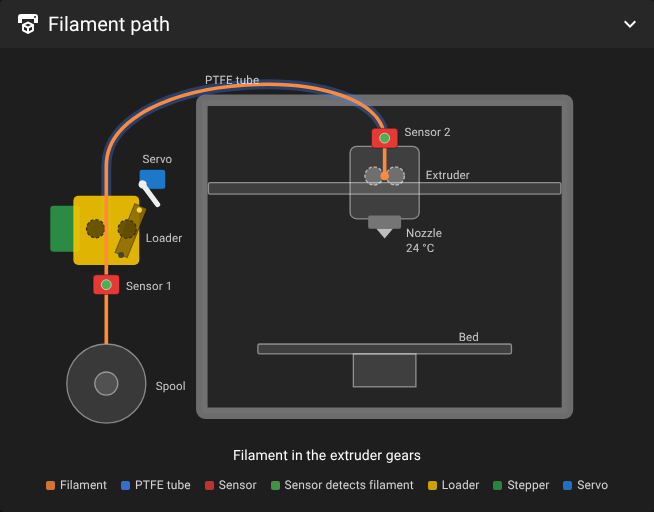
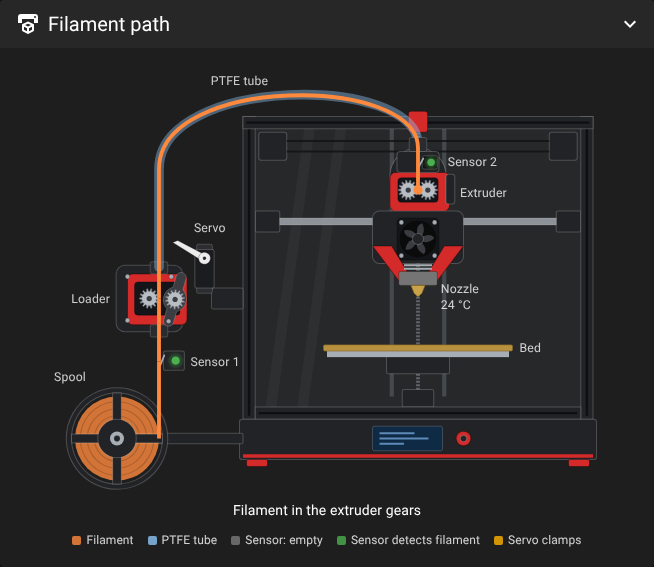
Filament path graphic in Voron V0.2 style
- Black 2020 extrusions, red accent parts, panels, CoreXY gantry with A/B
  motors and X rail, bed with textured sheet, Z lead screw, skirt with
  display, knob and feet
- Loader: NEMA17 face with printed housing, BMG-style toothed gears, idler
  on a swing arm, MG90S with horn, couplers, micro switch with status LED,
  spool with flange spokes on its holder (turns while the loader pulls)
- Toolhead: Sherpa Mini-style extruder, sensor block, Dragon Burner-style
  body with hotend fan (spins above 50 °C), red ducts, heatsink, heater
  block coloured by temperature, brass nozzle
- Works in Mainsail's dark and light theme

Claude-Session: https://claude.ai/code/session_01VDtPnBwXqHuwKHs624Dn1u

diff --git a/web/index.html b/web/index.html
@@ -83,23 +83,60 @@ html.theme--light .kv td { border-bottom-color: rgba(0,0,0,.12); }
 .step-ic.auto { cursor: default; }
 
 /* filament path graphic */
-#fpath { width: 100%; max-width: 560px; display: block; margin: 0 auto; overflow: visible; }
-#fpath text { font: 7px Roboto, sans-serif; fill: currentColor; opacity: .75; }
-#fpath .frame { fill: none; stroke: currentColor; stroke-opacity: .35; stroke-width: 7; }
-#fpath .panel-bg { fill: currentColor; fill-opacity: .03; }
-#fpath .part { fill: currentColor; fill-opacity: .12; stroke: currentColor; stroke-opacity: .45; stroke-width: .8; }
-#fpath .tube { fill: none; stroke: #3b82f6; stroke-opacity: .35; stroke-width: 6; stroke-linecap: round; }
+#fpath { width: 100%; max-width: 560px; display: block; margin: 0 auto; overflow: visible;
+  --fp-black: #222326; --fp-blk2: #2d2e32; --fp-edge: rgba(255,255,255,.2); --fp-acc: #d42a2a; --fp-acc-edge: rgba(0,0,0,.35);
+  --fp-metal: #a7adb4; --fp-glass: rgba(150,180,210,.07); }
+html.theme--light #fpath { --fp-edge: rgba(0,0,0,.55); --fp-glass: rgba(90,130,170,.08); }
+#fpath text { font: 7px Roboto, sans-serif; fill: currentColor; opacity: .78; }
+#fpath .ext, #fpath .blk, #fpath .motor, #fpath .flange { fill: var(--fp-black); stroke: var(--fp-edge); stroke-width: .6; }
+#fpath .slot { stroke: #000; stroke-opacity: .55; stroke-width: 1.4; }
+#fpath .acc { fill: var(--fp-acc); stroke: var(--fp-acc-edge); stroke-width: .6; }
+#fpath .acc-line { stroke: var(--fp-acc); stroke-width: 2; }
+#fpath .glass { fill: var(--fp-glass); }
+#fpath .glare { stroke: #fff; stroke-opacity: .035; stroke-width: 6; }
+#fpath .rod { stroke: var(--fp-metal); stroke-opacity: .45; stroke-width: 2.2; stroke-dasharray: 1.2 .8; }
+#fpath .zrail { stroke: var(--fp-metal); stroke-opacity: .25; stroke-width: 2.4; }
+#fpath .rail { fill: var(--fp-metal); fill-opacity: .8; stroke: var(--fp-edge); stroke-width: .4; }
+#fpath .belt { stroke: #111; stroke-width: 1.2; stroke-opacity: .8; }
+#fpath .alu { fill: var(--fp-metal); }
+#fpath .sheet { fill: #b8913f; stroke: #8a6a2a; stroke-width: .4; }
+#fpath .lcd { fill: #0f2a44; stroke: var(--fp-edge); stroke-width: .5; }
+#fpath .lcd-txt { stroke: #7fb3e8; stroke-opacity: .7; stroke-width: 1.2; }
+#fpath .wind { fill: #ff8a3d; fill-opacity: .8; }
+#fpath .wind-line { fill: none; stroke: #000; stroke-opacity: .18; stroke-width: .6; }
+#fpath .metal, #fpath .screw { fill: var(--fp-metal); }
+#fpath .screw { stroke: rgba(0,0,0,.4); stroke-width: .3; }
+#fpath .motor-ring { fill: none; stroke: var(--fp-metal); stroke-opacity: .5; stroke-width: .8; }
+#fpath .win, #fpath .fanbox { fill: #141518; stroke: rgba(0,0,0,.4); stroke-width: .4; }
+#fpath .fanhole { fill: #0b0b0c; }
+#fpath .blade { fill: #3a3c41; }
+#fpath .fins { stroke: var(--fp-metal); stroke-width: 1.2; }
+#fpath .brass { fill: #c9a24a; stroke: #8d6d24; stroke-width: .4; }
+#fpath #heater { stroke: rgba(0,0,0,.4); stroke-width: .4; transition: fill .6s; }
+#fpath .coupler { fill: #2a2b2f; stroke: var(--fp-edge); stroke-width: .5; }
+#fpath .sw { fill: #111; stroke: var(--fp-edge); stroke-width: .5; }
+#fpath .lever { stroke: var(--fp-metal); stroke-width: 1; stroke-linecap: round; }
+#fpath .armp { fill: #3b3d42; stroke: var(--fp-edge); stroke-width: .5; }
+#fpath .servo { fill: #1b1c1f; stroke: var(--fp-edge); stroke-width: .6; }
+#fpath .servo-ear { fill: #2c2d31; stroke: var(--fp-edge); stroke-width: .5; }
+#fpath .horn { fill: #ececec; stroke: rgba(0,0,0,.35); stroke-width: .4; }
+#fpath .tube { fill: none; stroke: #8ec5f5; stroke-opacity: .42; stroke-width: 5.5; stroke-linecap: round; }
 #fpath .fil { fill: none; stroke: #ff8a3d; stroke-width: 2.2; stroke-linecap: butt; transition: stroke-dasharray .4s, opacity .4s; }
 #fpath .fil.faint { opacity: .35; }
-#fpath .gear { fill: currentColor; fill-opacity: .25; stroke: currentColor; stroke-opacity: .6; stroke-width: .8; stroke-dasharray: 2 1.2; transform-box: fill-box; transform-origin: center; }
+#fpath .gear { transform-box: fill-box; transform-origin: center; }
+#fpath .gteeth { fill: #b9bec5; stroke: #5f646b; stroke-width: .4; }
+#fpath .ghub { fill: #3a3c41; }
 #fpath .gear.spin { animation: fspin 1s linear infinite; }
 #fpath .gear.spin.rev { animation-direction: reverse; }
-#fpath .sensor { fill: #e53935; stroke: rgba(0,0,0,.35); stroke-width: .6; }
-#fpath .sdot { fill: #333; stroke: #fff; stroke-opacity: .6; stroke-width: .6; transition: fill .3s; }
-#fpath .sdot.on { fill: #4caf50; }
+#fpath #spool { transform-box: view-box; transform-origin: 40px 214px; }
+#fpath #spool.spin { animation: fspin 3s linear infinite reverse; }
+#fpath #fan { transform-box: view-box; transform-origin: 212px 100px; }
+#fpath #fan.spin { animation: fspin .35s linear infinite; }
+#fpath .sdot { fill: #7a7a7a; stroke: #000; stroke-opacity: .5; stroke-width: .5; transition: fill .3s; }
+#fpath .sdot.on { fill: #4caf50; filter: drop-shadow(0 0 1.5px #4caf50); }
 #fpath #arm, #fpath #horn { transition: transform .4s; transform-box: view-box; }
-#fpath #arm { transform-origin: 45px 116px; }
-#fpath #horn { transform-origin: 58px 73px; }
+#fpath #arm { transform-origin: 69.5px 147px; }
+#fpath #horn { transform-origin: 90px 111px; }
 #fpath #press { transition: opacity .3s; }
 #fpath .head { fill: #ff8a3d; }
 #fpath .head.pulse { animation: fpulse 1s ease-in-out infinite; transform-box: fill-box; transform-origin: center; }
@@ -109,7 +146,6 @@ html.theme--light .kv td { border-bottom-color: rgba(0,0,0,.12); }
 .legend-row { display: flex; flex-wrap: wrap; gap: 4px 14px; font-size: 12px; opacity: .8; justify-content: center; }
 .legend-row i { display: inline-block; width: 9px; height: 9px; border-radius: 50%; margin-right: 5px; vertical-align: -1px; }
 
-#fpath #g-l1, #fpath #g-l2 { fill: #5d4a00; fill-opacity: .9; stroke: #3e3200; stroke-opacity: 1; }
 
 /* settings editor */
 #tab-bar .v-tab { min-width: 0; padding: 0 12px; }
@@ -228,7 +264,7 @@ body.no-mainsail .v-btn { background: #333; color: #fff; border: 0; border-radiu
           <div class="col" id="col1">
             <x-panel p="path" icon="mdiPrinter3d" title="Filamentweg">
               <div class="v-card__text">
-                <svg id="fpath" viewBox="0 0 340 228" role="img" aria-label="Filamentweg"></svg>
+                <svg id="fpath" viewBox="0 0 320 246" role="img" aria-label="Filamentweg"></svg>
                 <div class="d-flex align-center justify-center flex-wrap mt-1" style="gap:8px" id="path-info"></div>
                 <div class="legend-row mt-2" id="path-legend"></div>
               </div>
@@ -595,7 +631,7 @@ const T_EN = {
   "Sprache der Klipper-Meldungen auf {l} gesetzt.": "Klipper message language set to {l}.",
   // Filament path
   "Filamentweg": "Filament path", "Spule": "Spool", "PTFE-Schlauch": "PTFE tube", "Extruder": "Extruder", "Düse": "Nozzle", "Bett": "Bed",
-  "Sensor": "Sensor", "Sensor meldet Filament": "Sensor detects filament", "Sensor 1": "Sensor 1", "Sensor 2": "Sensor 2",
+  "Sensor": "Sensor", "Sensor meldet Filament": "Sensor detects filament", "Sensor: leer": "Sensor: empty", "Servo klemmt": "Servo clamps", "Sensor 1": "Sensor 1", "Sensor 2": "Sensor 2",
   "Filament in den Extruder-Zahnrädern": "Filament in the extruder gears", "Extrudiert zur Düse …": "Extruding to the nozzle …",
   "Hotend heizt auf …": "Hotend heating up …", "Extruder zieht zurück …": "Extruder retracting …",
   "Filament geladen bis zur Düse": "Filament loaded to the nozzle", "Filament im Loader (Zahnräder)": "Filament in the loader (gears)",
@@ -1468,74 +1504,141 @@ function histCsv() {
 
 
 // =====================================================================
-// Filament path graphic (schematic Voron V0-style frame, side-mounted loader)
+// Filament path graphic – front view of a Voron V0.2 (black extrusions,
+// red accent parts, skirt with display) with the side-mounted loader:
+// spool, micro switch, NEMA17 with BMG gears and servo-pressed idler arm,
+// and a Dragon Burner-style toolhead with Sherpa Mini-style extruder.
 // Segments: 0 spool→sensor 1, 1 sensor 1→loader gears, 2 PTFE tube→sensor 2,
 //           3 sensor 2→extruder gears, 4 extruder gears→nozzle
 // Position is derived from the sensors, the macro state and elapsed time
 // (estimated from the configured speeds and lengths while moving).
 // =====================================================================
 const SEG = [
-  "M36,170 L36,134",
-  "M36,134 L36,100",
-  "M36,100 L36,62 C36,2 205,-4 205,46",
-  "M205,46 L205,68",
-  "M205,68 L205,104",
+  "M64,214 L64,170",
+  "M64,170 L64,134",
+  "M64,134 L64,60 C64,6 212,6 212,48 L212,56",
+  "M212,56 L212,72",
+  "M212,72 L212,132",
 ];
 const PATH = { built: false, lens: [], s1: null, s2: null, s1t: 0, s2t: 0, extT: 0, timer: 0 };
 
+/* toothed gear outline */
+function gearD(cx, cy, r, n) {
+  const ri = r - 1.4, st = Math.PI * 2 / n;
+  let d = "";
+  for (let i = 0; i < n; i++) {
+    const a = i * st;
+    [[ri, a - st * 0.5], [ri, a - st * 0.27], [r, a - st * 0.14], [r, a + st * 0.14], [ri, a + st * 0.27]].forEach(([rr, aa], j) => {
+      d += (i === 0 && j === 0 ? "M" : "L") + (cx + rr * Math.cos(aa)).toFixed(2) + "," + (cy + rr * Math.sin(aa)).toFixed(2);
+    });
+  }
+  return d + "Z";
+}
+
 function buildPath() {
   const svg = $("fpath");
-  const gear = (id, x, y) => `<circle class="gear" id="${id}" cx="${x}" cy="${y}" r="5.5"></circle>`;
+  const gear = (id, x, y) => `<g class="gear" id="${id}"><path class="gteeth" d="${gearD(x, y, 5.6, 14)}"></path><circle class="ghub" cx="${x}" cy="${y}" r="1.5"></circle></g>`;
+  const screw = (x, y) => `<circle class="screw" cx="${x}" cy="${y}" r="1.3"></circle>`;
+  // 2020 extrusion with its slot
+  const extH = (x1, x2, y) => `<rect class="ext" x="${x1}" y="${y}" width="${x2 - x1}" height="7"></rect><path class="slot" d="M${x1 + 2},${y + 3.5} H${x2 - 2}"></path>`;
+  const extV = (x, y1, y2) => `<rect class="ext" x="${x}" y="${y1}" width="7" height="${y2 - y1}"></rect><path class="slot" d="M${x + 3.5},${y1 + 2} V${y2 - 2}"></path>`;
+  const blades = (cx, cy, r, n) => Array.from({ length: n }, (_, i) =>
+    `<path class="blade" d="M${cx},${cy} q${(r * 0.55).toFixed(1)},${(-r * 0.35).toFixed(1)} ${(r * 0.25).toFixed(1)},${(-r * 0.95).toFixed(1)} q${(-r * 0.45).toFixed(1)},${(r * 0.1).toFixed(1)} ${(-r * 0.25).toFixed(1)},${(r * 0.95).toFixed(1)}Z" transform="rotate(${(360 / n * i).toFixed(1)} ${cx} ${cy})"></path>`).join("");
   svg.innerHTML =
-    // printer frame (front view) with panels, bed and gantry
-    `<rect class="panel-bg" x="94" y="22" width="222" height="190" rx="2"></rect>` +
-    `<rect class="frame" x="94" y="22" width="222" height="190" rx="2"></rect>` +
-    `<rect class="part" x="128" y="170" width="154" height="6" rx="1"></rect>` +
-    `<rect class="part" x="186" y="176" width="38" height="20"></rect>` +
-    `<rect class="part" x="98" y="72" width="214" height="7" rx="1"></rect>` +
-    // PTFE tube
-    `<path class="tube" d="M36,100 L36,62 C36,2 205,-4 205,46"></path>` +
-    // spool
-    `<circle class="part" cx="36" cy="194" r="24"></circle><circle class="part" cx="36" cy="194" r="7"></circle>` +
-    // loader (BMG principle): stepper (green) drives the fixed gear, the idler gear sits on a
-    // pivoting arm; the servo horn pushes the arm so the idler presses the filament onto the drive gear
-    `<rect x="2" y="86" width="18" height="28" rx="2" fill="#2e9d4a" fill-opacity=".85"></rect>` +
-    `<rect x="16" y="80" width="40" height="42" rx="3" fill="#f5c400" fill-opacity=".9"></rect>` +
-    gear("g-l1", 29.5, 100) +
-    `<g id="arm">` +
-      `<path d="M41,84 L49,84 L49,116 L41,116 Z" fill="#8d6e00" fill-opacity=".9" stroke="rgba(0,0,0,.4)" stroke-width=".6"></path>` +
-      gear("g-l2", 42.5, 100) +
-      `<circle cx="45" cy="86.5" r="1.6" fill="#ffd54f"></circle>` +
+    // ---- printer: Voron V0.2 front view ----
+    `<rect class="glass" x="119" y="37" width="186" height="159"></rect>` +
+    `<path class="glare" d="M150,37 L128,196 M168,37 L146,196"></path>` +
+    // Z: lead screw and rails behind the bed, Z motor at the bottom
+    `<path class="rod" d="M212,37 V190"></path><path class="zrail" d="M197,37 V190 M227,37 V190"></path>` +
+    `<rect class="blk" x="203" y="186" width="18" height="10" rx="1"></rect>` +
+    // CoreXY: A/B motors in the rear corners, belts, X rail with carriages
+    `<rect class="blk" x="121" y="39" width="16" height="16" rx="1.5"></rect><rect class="blk" x="287" y="39" width="16" height="16" rx="1.5"></rect>` +
+    `<path class="belt" d="M137,44 H287 M137,50 H287"></path>` +
+    `<rect class="blk" x="119" y="84" width="14" height="12" rx="1"></rect><rect class="blk" x="291" y="84" width="14" height="12" rx="1"></rect>` +
+    `<rect class="rail" x="133" y="88" width="158" height="4"></rect>` +
+    // bed: carriage, aluminium plate, textured sheet
+    `<rect class="blk" x="194" y="167" width="36" height="10" rx="1"></rect>` +
+    `<rect class="alu" x="160" y="164" width="104" height="3.5"></rect>` +
+    `<rect class="sheet" x="158" y="160.5" width="108" height="3.5" rx=".8"></rect>` +
+    // frame
+    extV(112, 30, 203) + extV(305, 30, 203) + extH(112, 312, 30) + extH(119, 305, 196) +
+    // PTFE pass-through in the top panel
+    `<rect class="acc" x="206.5" y="27" width="11" height="12" rx="1.5"></rect>` +
+    // skirt with display and knob, feet
+    `<rect class="ext" x="110" y="203" width="204" height="23" rx="1.5"></rect>` +
+    `<path class="acc-line" d="M112,224 H312"></path>` +
+    `<rect class="lcd" x="186" y="207" width="40" height="14" rx="1"></rect><path class="lcd-txt" d="M190,211 h20 M190,214 h28 M190,217 h14"></path>` +
+    `<circle class="acc" cx="238" cy="214" r="4.2"></circle><circle class="blk" cx="238" cy="214" r="1.8"></circle>` +
+    `<rect class="acc" x="114" y="226" width="12" height="4" rx="1"></rect><rect class="acc" x="298" y="226" width="12" height="4" rx="1"></rect>` +
+    // ---- spool on its holder ----
+    `<rect class="blk" x="40" y="211" width="72" height="6" rx="1"></rect>` +
+    `<circle class="wind" cx="40" cy="214" r="24"></circle>` +
+    `<path class="wind-line" d="M40,197 a17,17 0 1,0 0.01,0 M40,201 a13,13 0 1,0 0.01,0 M40,193 a21,21 0 1,0 0.01,0"></path>` +
+    `<g id="spool">` +
+      `<path class="flange" fill-rule="evenodd" d="M40,185 a29,29 0 1,0 0.01,0 Z M40,188 a26,26 0 1,1 -0.01,0 Z"></path>` +
+      [0, 90, 180, 270].map((a) => `<rect class="flange" x="37.5" y="188" width="5" height="16" transform="rotate(${a} 40 214)"></rect>`).join("") +
+      `<circle class="flange" cx="40" cy="214" r="11"></circle><circle class="metal" cx="40" cy="214" r="4"></circle><circle class="blk" cx="40" cy="214" r="1.8"></circle>` +
     `</g>` +
-    `<circle cx="45" cy="116" r="1.8" fill="#424242"></circle>` +
-    `<rect x="56" y="64" width="16" height="12" rx="1.5" fill="#1e88e5" fill-opacity=".85" stroke="rgba(0,0,0,.4)" stroke-width=".6"></rect>` +
-    `<g id="horn"><path d="M58,73 L48.5,85" stroke="#eeeeee" stroke-width="3.2" stroke-linecap="round"></path><circle cx="58" cy="73" r="2.4" fill="#eeeeee"></circle></g>` +
-    `<path id="press" d="M54,90 l-5,0 m2,-2 l-2,2 l2,2" fill="none" stroke="#ff5252" stroke-width="1" stroke-linecap="round"></path>` +
-    // toolhead with extruder gears, hotend and nozzle
-    `<rect class="part" x="184" y="50" width="42" height="44" rx="4"></rect>` +
-    gear("g-e1", 198.5, 68) + gear("g-e2", 211.5, 68) +
-    `<rect id="heater" x="195" y="92" width="20" height="8" rx="1" fill="#757575"></rect>` +
-    `<path d="M200,100 L210,100 L205,106 Z" fill="#bdbdbd"></path>` +
-    // filament segments (drawn above the parts)
+    // ---- loader, mounted to the left frame post ----
+    `<rect class="blk" x="94" y="128" width="18" height="12" rx="1"></rect>` +
+    // NEMA17 (front face) – the drive gear sits on its shaft
+    `<rect class="motor" x="39.5" y="115" width="38" height="38" rx="5"></rect>` +
+    // printed housing with gear window, couplers top and bottom
+    `<rect class="acc" x="46" y="120" width="34" height="29" rx="3"></rect>` +
+    `<rect class="win" x="50" y="124.5" width="26" height="19" rx="2"></rect>` +
+    screw(46, 121.5) + screw(71, 121.5) + screw(46, 146.5) + screw(71, 146.5) +
+    `<rect class="coupler" x="59" y="113" width="10" height="7" rx="1"></rect>` +
+    `<rect class="coupler" x="59" y="149" width="10" height="7" rx="1"></rect>` +
+    // micro switch at the entrance (sensor 1)
+    `<rect class="blk" x="66.5" y="164" width="12" height="11" rx="1.2"></rect><path class="lever" d="M67,166.5 L64.8,172"></path>` +
+    // gears: drive gear (motor shaft) + idler gear on the swing arm
+    gear("g-l1", 58.4, 134) +
+    `<g id="arm"><path class="armp" d="M66.6,121 a2.9,2.9 0 0,1 5.8,0 V127.6 a7.4,7.4 0 0,1 0,12.8 V147 a2.9,2.9 0 0,1 -5.8,0 V140.4 a7.4,7.4 0 0,1 0,-12.8 Z"></path>` + gear("g-l2", 69.6, 134) + `</g>` +
+    screw(69.5, 147) +
+    // MG90S servo (top view of the shaft side) with its horn
+    `<rect class="servo-ear" x="85.5" y="103" width="9" height="28" rx="1"></rect>` +
+    `<rect class="servo" x="84.5" y="106" width="11" height="22" rx="1.2"></rect>` +
+    `<g id="horn"><path class="horn" d="M90,108.8 L73.3,118.6 L72.7,121.6 L90,113.2 Z"></path><circle class="horn" cx="90" cy="111" r="3.4"></circle><circle class="blk" cx="90" cy="111" r="1"></circle></g>` +
+    `<path id="press" d="M84,126 h-6 m2.2,-2.2 l-2.2,2.2 l2.2,2.2" fill="none" stroke="#ffb300" stroke-width="1.2" stroke-linecap="round"></path>` +
+    // ---- PTFE tube ----
+    `<path class="tube" d="M64,116 L64,60 C64,6 212,6 212,46"></path>` +
+    // ---- toolhead: Dragon Burner style with a Sherpa Mini style extruder ----
+    `<circle class="motor" cx="212" cy="64" r="16"></circle>` +
+    `<rect class="acc" x="196" y="62" width="34" height="22" rx="3"></rect>` +
+    `<rect class="win" x="200.5" y="65" width="23" height="14" rx="2"></rect>` +
+    `<rect class="blk" x="228" y="63" width="5" height="17" rx="1.5"></rect>` +
+    gear("g-e1", 206.4, 72) + gear("g-e2", 217.6, 72) +
+    `<rect class="coupler" x="207" y="42" width="10" height="8" rx="1"></rect>` +
+    `<rect class="blk" x="200" y="50" width="24" height="12" rx="2"></rect>` +
+    `<rect class="sw" x="214.5" y="52.5" width="8.5" height="7.5" rx="1"></rect><path class="lever" d="M215,54 L212.6,58.5"></path>` +
+    `<rect class="blk" x="186" y="84" width="52" height="30" rx="4"></rect>` +
+    `<rect class="fanbox" x="200" y="88" width="24" height="24" rx="2.5"></rect><circle class="fanhole" cx="212" cy="100" r="10.5"></circle>` +
+    `<g id="fan">${blades(212, 100, 9.5, 5)}<circle class="blk" cx="212" cy="100" r="3.2"></circle></g>` +
+    screw(202.5, 90.5) + screw(221.5, 90.5) + screw(202.5, 109.5) + screw(221.5, 109.5) +
+    `<path class="acc" d="M186,104 L197,104 L208.5,123 L203,126.5 Z"></path><path class="acc" d="M238,104 L227,104 L215.5,123 L221,126.5 Z"></path>` +
+    `<path class="fins" d="M204,115 h16 M204,117 h16"></path>` +
+    `<rect id="heater" x="201" y="118.5" width="22" height="8" rx="1"></rect>` +
+    `<path class="brass" d="M208,126.5 L216,126.5 L214.2,131 L212,133 L209.8,131 Z"></path>` +
+    // ---- filament segments (drawn above the parts, like a cut-away) ----
     SEG.map((d, i) => `<path class="fil" id="fil${i}" d="${d}"></path>`).join("") +
     `<circle class="head" id="fhead" r="2.6" cx="0" cy="0"></circle>` +
-    // sensors
-    `<rect class="sensor" x="28" y="128" width="16" height="12" rx="2"></rect><circle class="sdot" id="sd1" cx="36" cy="134" r="3"><title></title></circle>` +
-    `<rect class="sensor" x="197" y="39" width="16" height="12" rx="2"></rect><circle class="sdot" id="sd2" cx="205" cy="45" r="3"><title></title></circle>` +
+    // sensor LEDs
+    `<circle class="sdot" id="sd1" cx="73.5" cy="169.5" r="2.6"><title></title></circle>` +
+    `<circle class="sdot" id="sd2" cx="219.5" cy="56.2" r="2.4"><title></title></circle>` +
     // labels
-    `<text x="66" y="198">${esc(t("Spule"))}</text>` +
-    `<text x="48" y="137">${esc(t("Sensor 1"))}</text>` +
-    `<text x="60" y="108">${esc(t("Loader"))}</text>` +
-    `<text x="58" y="60">${esc(t("Servo"))}</text>` +
-    `<text x="96" y="12">${esc(t("PTFE-Schlauch"))}</text>` +
-    `<text x="217" y="44">${esc(t("Sensor 2"))}</text>` +
-    `<text x="230" y="70">${esc(t("Extruder"))}</text>` +
-    `<text x="218" y="105">${esc(t("Düse"))}</text>` +
-    `<text x="218" y="114" id="htemp"></text>` +
-    `<text x="250" y="168">${esc(t("Bett"))}</text>`;
+    `<text x="4" y="181">${esc(t("Spule"))}</text>` +
+    `<text x="82" y="172.5">${esc(t("Sensor 1"))}</text>` +
+    `<text x="36" y="136.5" text-anchor="end">${esc(t("Loader"))}</text>` +
+    `<text x="93" y="96" text-anchor="middle">${esc(t("Servo"))}</text>` +
+    `<text x="110" y="12" text-anchor="middle">${esc(t("PTFE-Schlauch"))}</text>` +
+    `<text x="229" y="58.5">${esc(t("Sensor 2"))}</text>` +
+    `<text x="236" y="76">${esc(t("Extruder"))}</text>` +
+    `<text x="225" y="131">${esc(t("Düse"))}</text>` +
+    `<text x="225" y="140" id="htemp"></text>` +
+    `<text x="270" y="164.5">${esc(t("Bett"))}</text>`;
   PATH.lens = SEG.map((_, i) => $("fil" + i).getTotalLength());
   PATH.built = true;
-  $("path-legend").innerHTML = [["#ff8a3d", "Filament"], ["#3b82f6", "PTFE-Schlauch"], ["#e53935", "Sensor"], ["#4caf50", "Sensor meldet Filament"], ["#f5c400", "Loader"], ["#2e9d4a", "Stepper"], ["#1e88e5", "Servo"]]
+  $("path-legend").innerHTML = [["#ff8a3d", "Filament"], ["#8ec5f5", "PTFE-Schlauch"], ["#7a7a7a", "Sensor: leer"], ["#4caf50", "Sensor meldet Filament"], ["#ffb300", "Servo klemmt"]]
     .map(([c, l]) => `<span><i class="sq" style="background:${c}"></i>${esc(t(l))}</span>`).join("");
 }
 
@@ -1621,11 +1724,16 @@ function drawPath() {
   }
   // servo lever and gears
   // clamped: horn pushes the arm, idler gear on the filament · free: horn turned away, arm swings open
-  $("horn").style.transform = st.clamped ? "rotate(0deg)" : "rotate(-75deg)";
-  $("arm").style.transform = st.clamped ? "rotate(0deg)" : "rotate(22deg)";
+  $("horn").style.transform = st.clamped ? "rotate(0deg)" : "rotate(58deg)";
+  $("arm").style.transform = st.clamped ? "rotate(0deg)" : "rotate(16deg)";
   $("press").style.opacity = st.clamped ? "1" : "0";
   const loaderTurns = m.moving && st.clamped;
   ["g-l1", "g-l2"].forEach((g, i) => { const c = $(g).classList; c.toggle("spin", loaderTurns); c.toggle("rev", (i === 1) !== (m.dir < 0)); });
+  // the spool only turns while the loader pulls (filament leaves on the right side → counter-clockwise);
+  // pushing back just leaves slack between spool and loader
+  $("spool").classList.toggle("spin", loaderTurns && m.dir > 0);
+  // hotend fan (heater_fan) runs above 50 °C
+  $("fan").classList.toggle("spin", Number(ex.temperature || 0) > 50);
   const extTurns = m.moving && m.head > 4 && !st.clamped;
   ["g-e1", "g-e2"].forEach((g, i) => { const c = $(g).classList; c.toggle("spin", extTurns); c.toggle("rev", (i === 1) !== (m.dir < 0)); });
   // hotend colour by temperature
